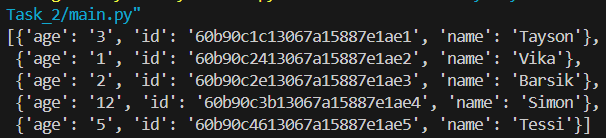
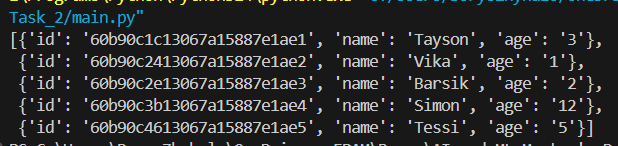
Fixed in pprint view of output

diff --git a/Task_2/main.py b/Task_2/main.py
@@ -14,7 +14,7 @@ def get_cats_info(path: Path) -> List[Dict[str, str]]:
     try:
         with open(path, "r", encoding="utf-8") as file:
             for row in file:
-                row = row.strip() #видаляємо пробіли і знаки табуляції в кінці рядка
+                row = row.strip() #видаляємо пробіли і знаки табуляції з обох кінців рядка
                 parts = row.split(",") # розділяємо за комою на три елементи 
 
                 if len(parts) != 3: # перевірка чи наша структура збережена 
@@ -36,7 +36,7 @@ def get_cats_info(path: Path) -> List[Dict[str, str]]:
         return []
 
 cats_info = get_cats_info(Path("Task_2/cats_file.txt"))
-pprint(cats_info)
+pprint(cats_info, sort_dicts=False)
 
 #cats_info = get_cats_info("path/to/cats_file.txt") -> перевірка якщо файлу не має
 #print(cats_info)
